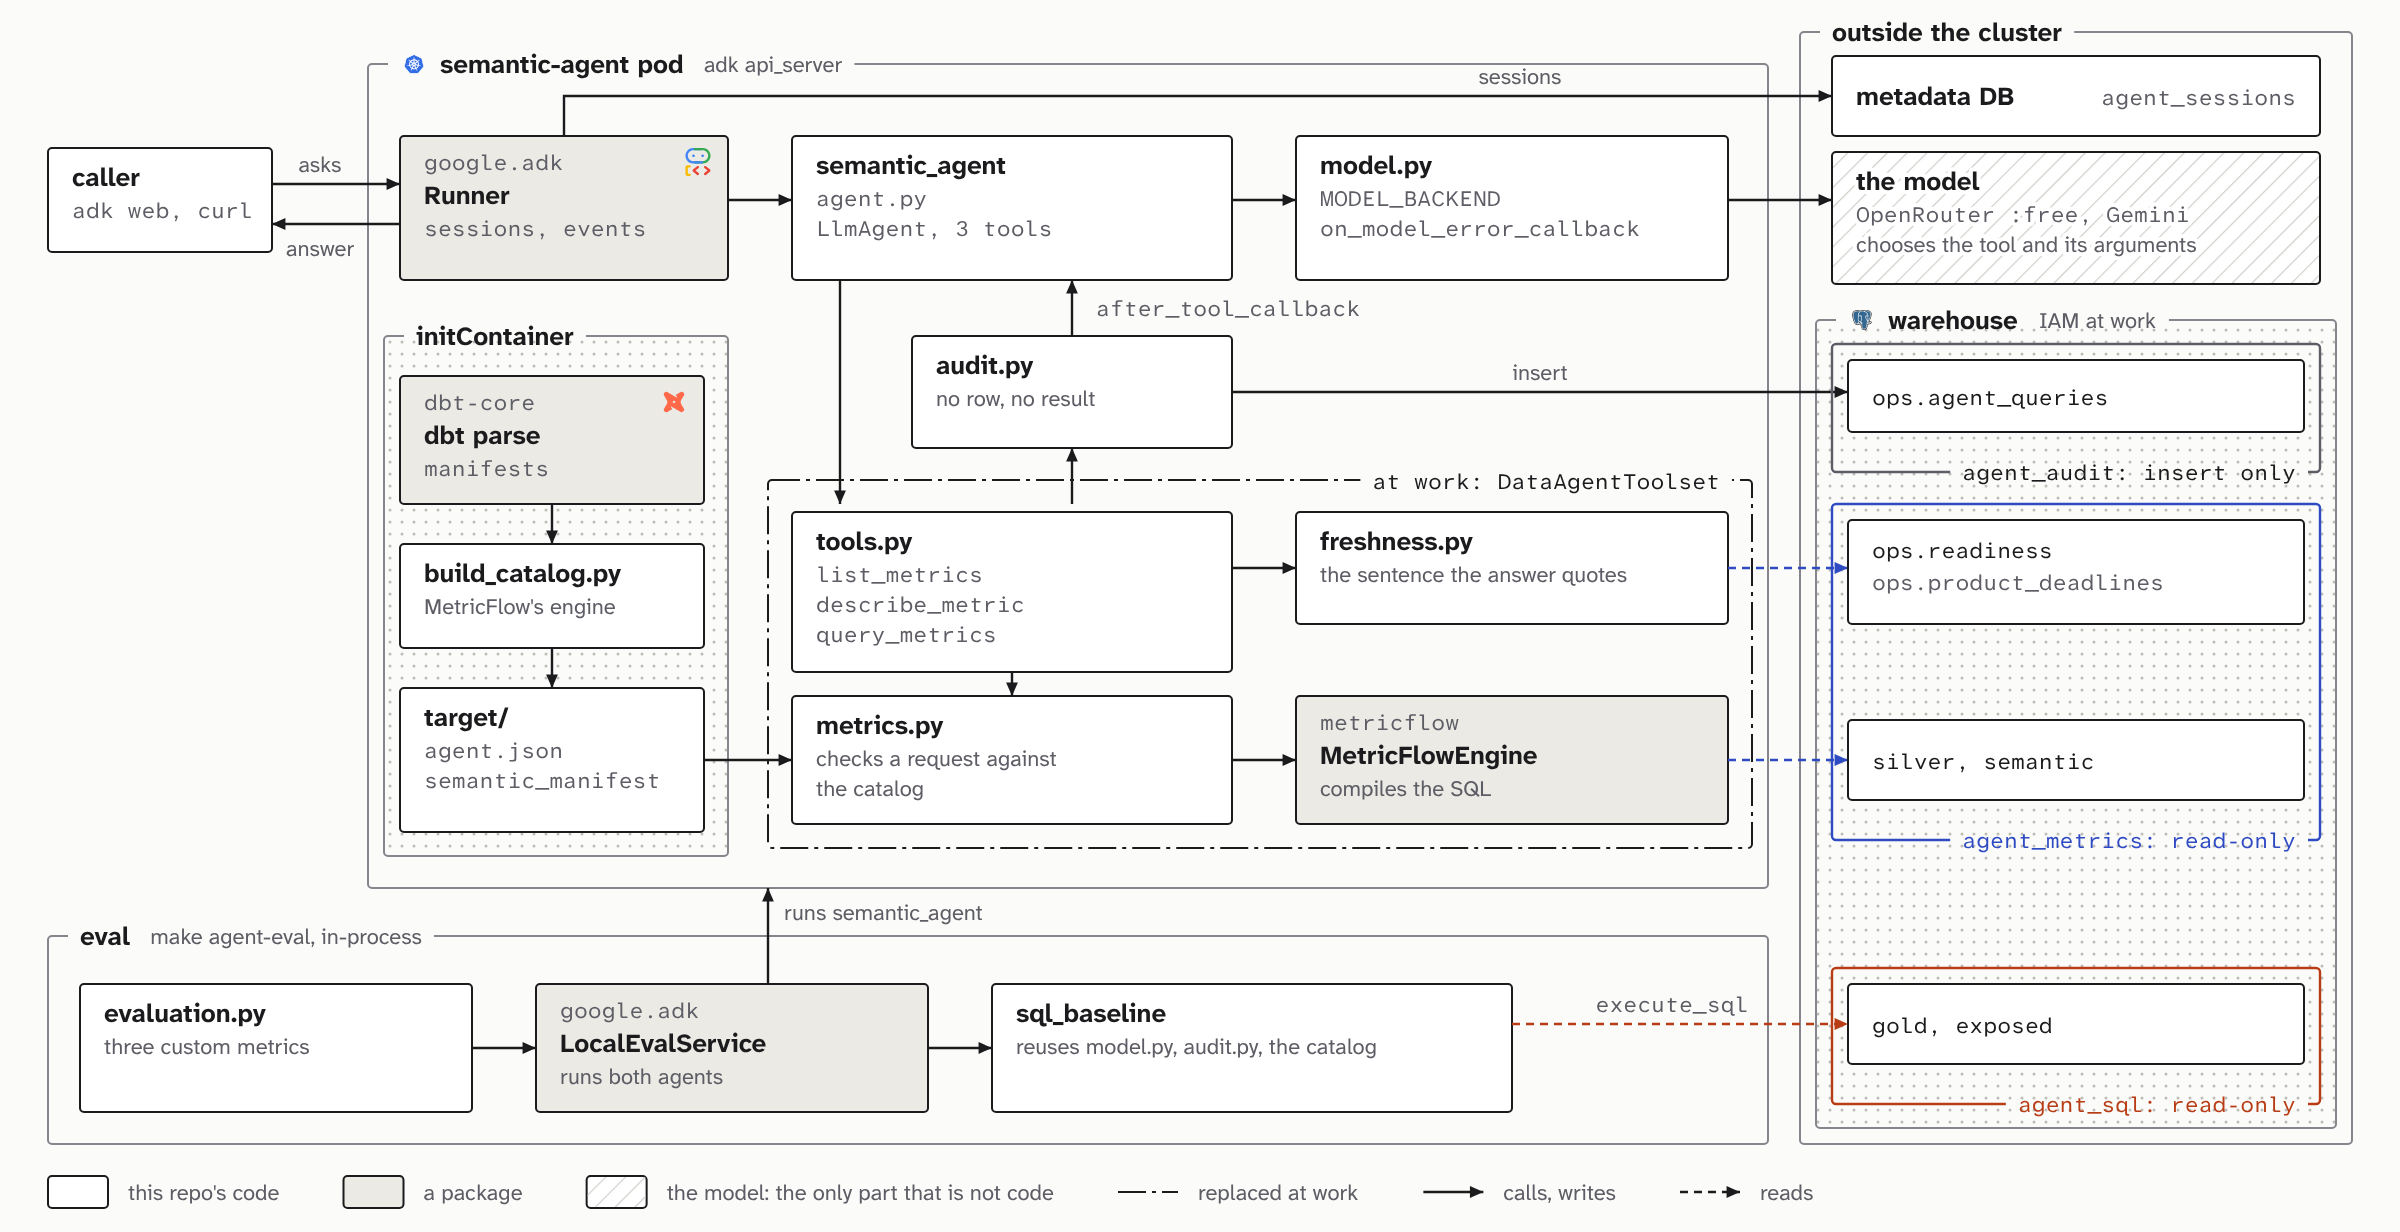
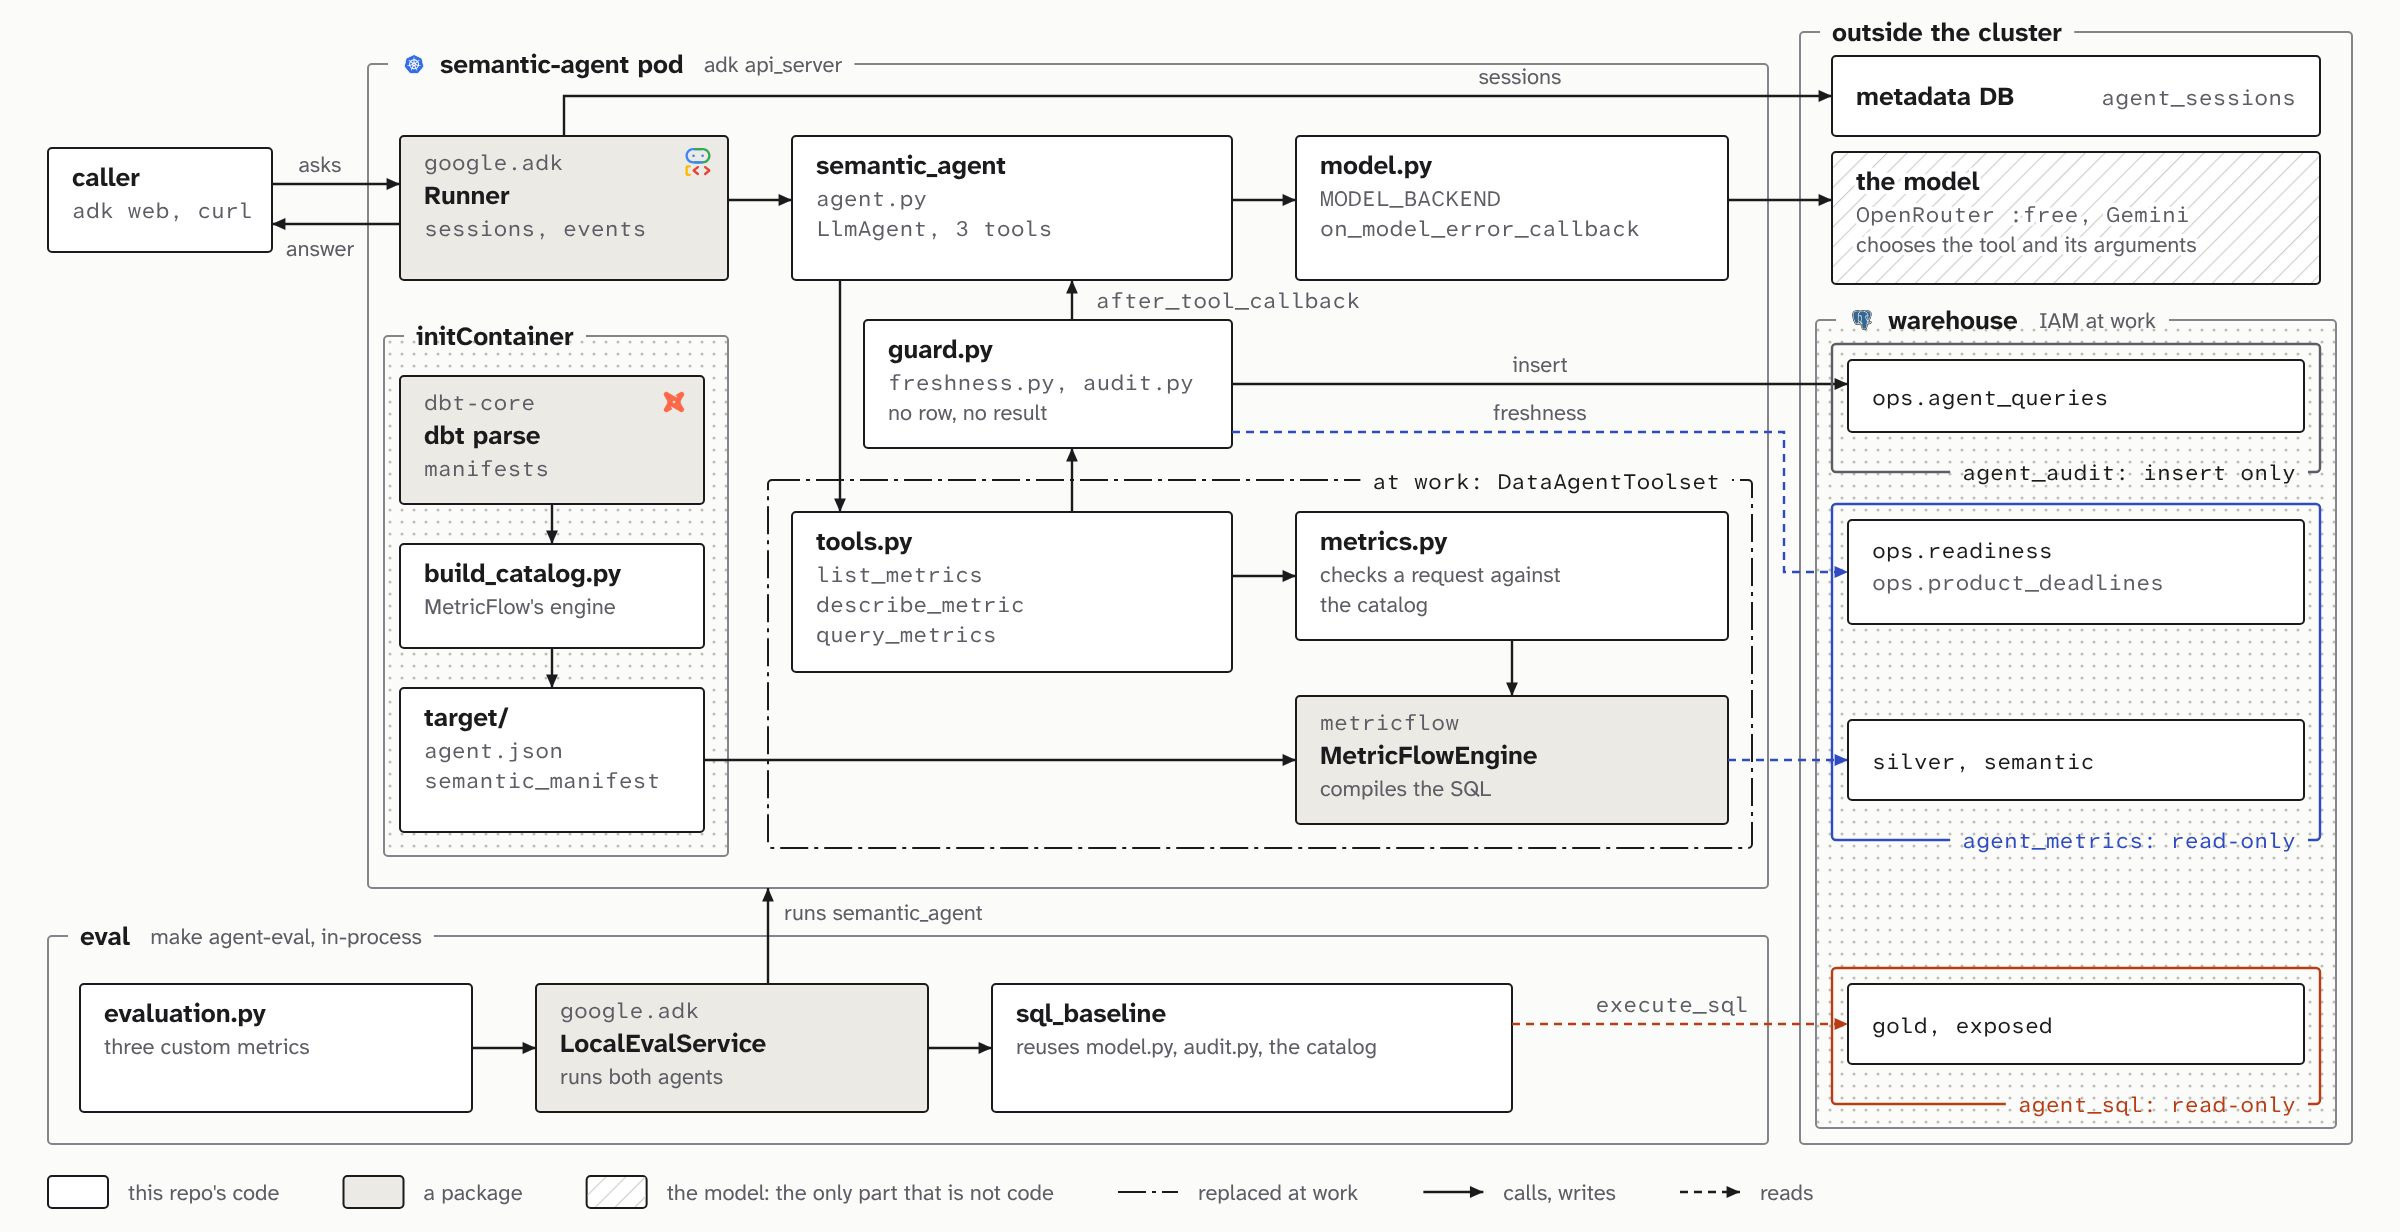
docs(semantic): draw the guard outside the toolset, as #178 left the code; the kit is draw-architecture

diff --git a/assets/semantic-agent.html b/assets/semantic-agent.html
@@ -125,7 +125,7 @@ svg.sheet { display: block; width: 100%; height: auto; min-width: 720px; font-fa
 <body>
 <div class="stage">
   <figure>
-    <svg class="sheet" id="d" viewBox="0 0 1200 616" role="img" aria-label="Inside the semantic agent, in the order a question travels. A caller asks ADK's Runner, which keeps sessions in the metadata DB outside the cluster and hands the question to the LlmAgent in agent.py. The agent calls the model through model.py; the model, hatched, is the only part that is not code: it chooses the tool and its arguments. The agent calls tools.py; query_metrics has metrics.py check the request against the catalog and MetricFlow's engine compile the SQL, read as agent_metrics from silver and semantic; freshness.py reads the readiness ledger as agent_metrics. Every result passes through audit.py, ADK's after_tool_callback, which inserts one row into ops.agent_queries as agent_audit and withholds the result if it cannot. An initContainer runs dbt parse and build_catalog.py into target/, which holds the catalog. A chain line marks the toolset the work platform replaces with DataAgentToolset. The eval runs the agent and a text-to-SQL baseline, which reads gold and exposed as agent_sql, on ADK's LocalEvalService."></svg>
+    <svg class="sheet" id="d" viewBox="0 0 1200 616" role="img" aria-label="Inside the semantic agent, in the order a question travels. A caller asks ADK's Runner, which keeps sessions in the metadata DB outside the cluster and hands the question to the LlmAgent in agent.py. The agent calls the model through model.py; the model, hatched, is the only part that is not code: it chooses the tool and its arguments. The agent calls tools.py; query_metrics has metrics.py check the request against the catalog and MetricFlow's engine compile the SQL, read as agent_metrics from silver and semantic; Every result passes through guard.py, ADK's after_tool_callback, outside the toolset: it attaches the freshness of the result's metrics from the readiness ledger, read as agent_metrics, then inserts one row into ops.agent_queries as agent_audit, and withholds the result if it cannot. An initContainer runs dbt parse and build_catalog.py into target/, which holds the catalog. A chain line marks the toolset the work platform replaces with DataAgentToolset. The eval runs the agent and a text-to-SQL baseline, which reads gold and exposed as agent_sql, on ADK's LocalEvalService."></svg>
   </figure>
 </div>
 <script>
@@ -485,23 +485,22 @@ Sheet.ready().then(() => {
   S.edge('M616,100 H648');
   S.edge('M282,68 V48 H916', { label: { text: 'sessions', at: [760, 42] } });
 
-  // the audit gate: every tool result passes through it on its way back to the agent
-  S.card({ x: 456, y: 168, w: 160, h: 56, title: 'audit.py', lines: ['no row, no result'] });
-  S.edge('M420,140 V252');
-  S.edge('M536,252 V224');
-  S.edge('M536,168 V140', { label: { text: 'after_tool_callback', at: [548, 158], anchor: 'start', mono: true } });
-  S.edge('M616,196 H924', { label: { text: 'insert', at: [770, 190] } });
+  // the guard: ADK's after_tool_callback, outside the toolset, so a swapped toolset keeps both: every data
+  // result gets its metrics' freshness, then its audit row, on its way back to the agent
+  S.card({ x: 432, y: 160, w: 184, h: 64, title: 'guard.py', lines: [{ mono: 'freshness.py, audit.py' }, 'no row, no result'] });
+  S.edge('M420,140 V256');
+  S.edge('M536,256 V224');
+  S.edge('M536,160 V140', { label: { text: 'after_tool_callback', at: [548, 154], anchor: 'start', mono: true } });
+  S.edge('M616,192 H924', { label: { text: 'insert', at: [770, 186] } });
+  S.edge('M616,216 H892 V286 H924', { reads: true, tone: 'cobalt', label: { text: 'freshness', at: [770, 210] } });
 
   // the toolset, which the work platform replaces
   S.phantom({ x: 384, y: 240, w: 492, h: 184, label: 'at work: DataAgentToolset' });
   S.card({ x: 396, y: 256, w: 220, h: 80, title: 'tools.py', lines: [{ mono: 'list_metrics' }, { mono: 'describe_metric' }, { mono: 'query_metrics' }] });
-  S.card({ x: 648, y: 256, w: 216, h: 56, title: 'freshness.py', lines: ['the sentence the answer quotes'] });
-  S.card({ x: 396, y: 348, w: 220, h: 64, title: 'metrics.py', lines: ['checks a request against', 'the catalog'] });
+  S.card({ x: 648, y: 256, w: 216, h: 64, title: 'metrics.py', lines: ['checks a request against', 'the catalog'] });
   S.card({ x: 648, y: 348, w: 216, h: 64, title: 'MetricFlowEngine', lines: ['compiles the SQL'], pkg: 'metricflow' });
-  S.edge('M616,284 H648');
-  S.edge('M506,336 V348');
-  S.edge('M616,380 H648');
-  S.edge('M864,284 H924', { reads: true, tone: 'cobalt' });
+  S.edge('M616,288 H648');
+  S.edge('M756,320 V348');
   S.edge('M864,380 H924', { reads: true, tone: 'cobalt' });
 
   // the initContainer: the catalog the toolset reads, built for the database the pod reads
@@ -511,7 +510,7 @@ Sheet.ready().then(() => {
   S.card({ x: 200, y: 344, w: 152, h: 72, title: 'target/', lines: [{ mono: 'agent.json' }, { mono: 'semantic_manifest' }] });
   S.edge('M276,252 V272');
   S.edge('M276,324 V344');
-  S.edge('M352,380 H396');
+  S.edge('M352,380 H648');
 
   // ---- outside the cluster
   S.frame({ x: 900, y: 16, w: 276, h: 556, title: 'outside the cluster' });

diff --git a/assets/platform.html b/assets/platform.html
@@ -127,7 +127,7 @@ svg.sheet { display: block; width: 100%; height: auto; min-width: 720px; font-fa
 <div class="stage">
   <div class="bar" id="bar"></div>
   <figure>
-    <svg class="sheet" id="d" viewBox="0 0 1200 1172" role="img" aria-label="The whole lab. GitHub syncs the DAGs into the airflow namespace of one kind cluster, where a scheduler pair, a triggerer pair, Celery workers scaled by KEDA, the api-server and the dag-processor run the pipelines; PgBouncer leads to the metadata DB outside the cluster. In the workloads namespace, the Cloud Run stand-ins: the event adapter turns object events from Pub/Sub into DAG runs, EL Factory stages files in object storage and loads ds_source, and dbt job pods build the warehouse's layers from bronze to exposed, each hop checked. The dbt project, with its models, semantic YAML, documentation and tests, is in both the dbt image and the semantic agent's: the agent pod's initContainer parses it into the catalog; the LlmAgent asks the model for a tool, its metric tools query MetricFlow, read as agent_metrics, quote freshness from the readiness ledger, and every result passes the audit gate into ops.agent_queries. Monitoring holds Prometheus, Alertmanager, alert rules and Grafana. The eval scores the agent against a text-to-SQL baseline that reads gold and exposed as agent_sql. An analyst asks the agent."></svg>
+    <svg class="sheet" id="d" viewBox="0 0 1200 1172" role="img" aria-label="The whole lab. GitHub syncs the DAGs into the airflow namespace of one kind cluster, where a scheduler pair, a triggerer pair, Celery workers scaled by KEDA, the api-server and the dag-processor run the pipelines; PgBouncer leads to the metadata DB outside the cluster. In the workloads namespace, the Cloud Run stand-ins: the event adapter turns object events from Pub/Sub into DAG runs, EL Factory stages files in object storage and loads ds_source, and dbt job pods build the warehouse's layers from bronze to exposed, each hop checked. The dbt project, with its models, semantic YAML, documentation and tests, is in both the dbt image and the semantic agent's: the agent pod's initContainer parses it into the catalog; the LlmAgent asks the model for a tool, its metric tools query MetricFlow, read as agent_metrics, and every result passes the guard, outside the toolset, which attaches freshness from the readiness ledger and writes its row into ops.agent_queries. Monitoring holds Prometheus, Alertmanager, alert rules and Grafana. The eval scores the agent against a text-to-SQL baseline that reads gold and exposed as agent_sql. An analyst asks the agent."></svg>
   </figure>
 </div>
 <script>
@@ -595,7 +595,7 @@ Sheet.ready().then(() => {
   S.phantom({ x: 548, y: 700, w: 312, h: 80, label: 'DataAgentToolset' });
   S.card({ x: 560, y: 716, w: 120, h: 52, title: 'MetricFlow', pkg: 'metricflow' });
   S.card({ x: 692, y: 716, w: 156, h: 52, title: 'metric tools', lines: [{ mono: 'query_metrics' }] });
-  S.card({ x: 872, y: 716, w: 108, h: 52, title: 'audit gate', lines: ['no row, no result'] });
+  S.card({ x: 872, y: 716, w: 108, h: 52, title: 'guard', lines: ['freshness, audit'] });
 
   // ---- below: outside the cluster
   S.frame({ x: 24, y: 856, w: 1000, h: 288, title: { lab: 'outside the cluster', gcp: 'managed services' }, edge: 'bottom' });
@@ -646,7 +646,7 @@ Sheet.ready().then(() => {
   S.edge('M848,626 H1000 V120 H952 V92');
   S.edge('M848,638 H1016 V64 H1048', { both: true });
   S.edge('M620,768 V912', { reads: true, tone: 'cobalt' });
-  S.edge('M790,768 V912', { reads: true, tone: 'cobalt', label: { text: 'freshness', at: [798, 840], anchor: 'start' } });
+  S.edge('M890,768 V868 H760 V912', { reads: true, tone: 'cobalt', label: { text: 'freshness', at: [882, 840], anchor: 'end' } });
   S.edge('M926,768 V912', { label: { text: 'insert', at: [934, 840], anchor: 'start' } });
 
   S.legend(1048, 160, [['card', 'a component'], ['pkg', 'a package'], ['hatch', 'the model'], ['phantom', 'at work'], ['calls', 'calls, writes'], ['reads', 'reads'], ['tick', 'checked hop'], ['cobalt', 'agent reads'], ['vermilion', 'eval reads']], { column: true });

diff --git a/ledger.d/2026-10-31-semantic-diagrams.md b/ledger.d/2026-10-31-semantic-diagrams.md
@@ -2,5 +2,5 @@
 
 - Done: `assets/platform.html` (new, now the README's opening picture) draws the whole lab once both tracks are done, the two focused sheets folded in at the level of an architecture: GitHub and the model above; the kind cluster with the airflow namespace (scheduler and triggerer pairs, Celery workers on KEDA, api-server, dag-processor, PgBouncer, the DAGs), monitoring (Prometheus, Alertmanager, alert rules, Grafana) and the workloads (event adapter, EL Factory, dbt job pods, the dbt project in both images, the semantic agent pod with its initContainer, LlmAgent, metric tools on MetricFlow and audit gate); outside it the metadata DB, Pub/Sub, object storage, the image registry, the work-only data agent, the eval, and the warehouse with its layers, checked hops and the three role regions; the analyst beside it. A Lab / On GCP switch relabels every stand-in. `assets/semantic-track.html` and `assets/semantic-agent.html` are redrawn in the same language: ink on paper, frames without fill whose title sits in a frame line, cobalt for what the agent reads as `agent_metrics` and vermilion for what the baseline reads as `agent_sql`, a chain line for what the work platform replaces, hatching for the model; Atkinson Hyperlegible Next and Mono, no text under 11 px. The agent diagram follows a question top to bottom and corrects the first draft (sessions in the metadata DB outside the cluster, the whole toolset as the work seam, the catalog from the initContainer's `target/`, the audit as a gate); the track diagram moves the never-deployed baseline into an in-process eval frame. All three are built on the draw-architecture kit in claude-dotfiles, which inlines its CSS, drawing API and logos into each page and checks it; every technology a sheet names that the kit's registry knows carries its logo in its brand colours, once per sheet, at one size (a one-ink copy in a theme where the colours do not read).
 - Evidence: the kit's checker (Playwright) reports 0 problems on all three pages in light and dark and in both modes: text inside its card and off edges, other text and frame lines, no edge through or along a card or into a logo, contrast at least 4.5:1, the logo rules (a named technology without its logo included), the web fonts loaded; it found and drove fixing labels on frame lines, knock-outs sized in a fallback font, arrows pointing at logos and a solid chain outline filled black. The switch works by click and keyboard and is remembered across a reload; the PNGs are exported at 2x (2400×2344, 2400×1144, 2400×1232).
-- Decisions: none in PLAN.md. The end state keeps PLAN.md's split: the agent and MetricFlow run in the cluster, the semantic layer lives in the warehouse outside it, and at work the workloads are Cloud Run, outside GKE. Drawing the work seam where the docs put it showed that the audit and freshness are tied to the lab's tool names: filed as #177.
-- Open: #177.
+- Decisions: none in PLAN.md. The end state keeps PLAN.md's split: the agent and MetricFlow run in the cluster, the semantic layer lives in the warehouse outside it, and at work the workloads are Cloud Run, outside GKE. Drawing the work seam where the docs put it showed that the audit and freshness were tied to the lab's tool names (#177); its fix moved both into the agent's after-tool callback (`guard.py`), which the agent diagram and the whole-lab picture now draw outside the toolset.
+- Open: none.

diff --git a/services/semantic-agent/README.md b/services/semantic-agent/README.md
@@ -10,7 +10,7 @@ It stands in for a Cloud Run service; at work the metric toolset is the seam a n
 
 <picture>
   <source media="(prefers-color-scheme: dark)" srcset="../../assets/semantic-agent-dark.png">
-  <img width="2400" height="1232" alt="Inside the semantic agent, in the order a question travels: a caller asks ADK's Runner, which keeps sessions in the metadata DB outside the cluster and hands the question to the LlmAgent in agent.py; the agent calls the model through model.py, and the model, hatched, is the only part that is not code: it chooses the tool and its arguments; tools.py's query_metrics has metrics.py check the request against the catalog and MetricFlow's engine compile the SQL, read as agent_metrics, and freshness.py reads the readiness ledger; every result passes through audit.py, ADK's after_tool_callback, which inserts one row as agent_audit or withholds the result; an initContainer runs dbt parse and build_catalog.py into target/; a chain line marks the toolset the work platform replaces with DataAgentToolset; the eval runs the agent and a text-to-SQL baseline, which reads gold and exposed as agent_sql, on ADK's LocalEvalService" src="../../assets/semantic-agent.png">
+  <img width="2400" height="1232" alt="Inside the semantic agent, in the order a question travels: a caller asks ADK's Runner, which keeps sessions in the metadata DB outside the cluster and hands the question to the LlmAgent in agent.py; the agent calls the model through model.py, and the model, hatched, is the only part that is not code: it chooses the tool and its arguments; tools.py's query_metrics has metrics.py check the request against the catalog and MetricFlow's engine compile the SQL, read as agent_metrics; every result passes through guard.py, ADK's after_tool_callback outside the toolset, which attaches its metrics' freshness from the readiness ledger and inserts one row as agent_audit, or withholds the result; an initContainer runs dbt parse and build_catalog.py into target/; a chain line marks the toolset the work platform replaces with DataAgentToolset; the eval runs the agent and a text-to-SQL baseline, which reads gold and exposed as agent_sql, on ADK's LocalEvalService" src="../../assets/semantic-agent.png">
 </picture>
 
 The picture runs top to bottom in the order a question travels.
@@ -23,7 +23,7 @@ This repo's code is the places it steps in:
   That Python surface is undocumented and held by the pin: `tests/test_metricflow_surface.py` checks it offline.
 - `dbt/macros/agent_warehouse.sql` creates the roles and the audit table through `dbt run-operation`, dispatched per adapter, and `dbt/macros/test_matches_metric.sql` renders a metric from dbt's graph as a build-time test.
 - The work platform swaps three things: the model (`MODEL_BACKEND=gemini`, a setting of `model.py`), the warehouse roles (IAM), and the whole metric toolset (`tools.py`, `metrics.py` and MetricFlow's engine) for `DataAgentToolset` on a BigQuery data agent.
-  The audit and the freshness statement are tied to the lab's tool names today, so that swap would drop them (#177).
+  The audit and the freshness statement stay: they are the agent's after-tool callback (`guard.py`), outside the toolset (#177).
 
 ## The two packages
 
